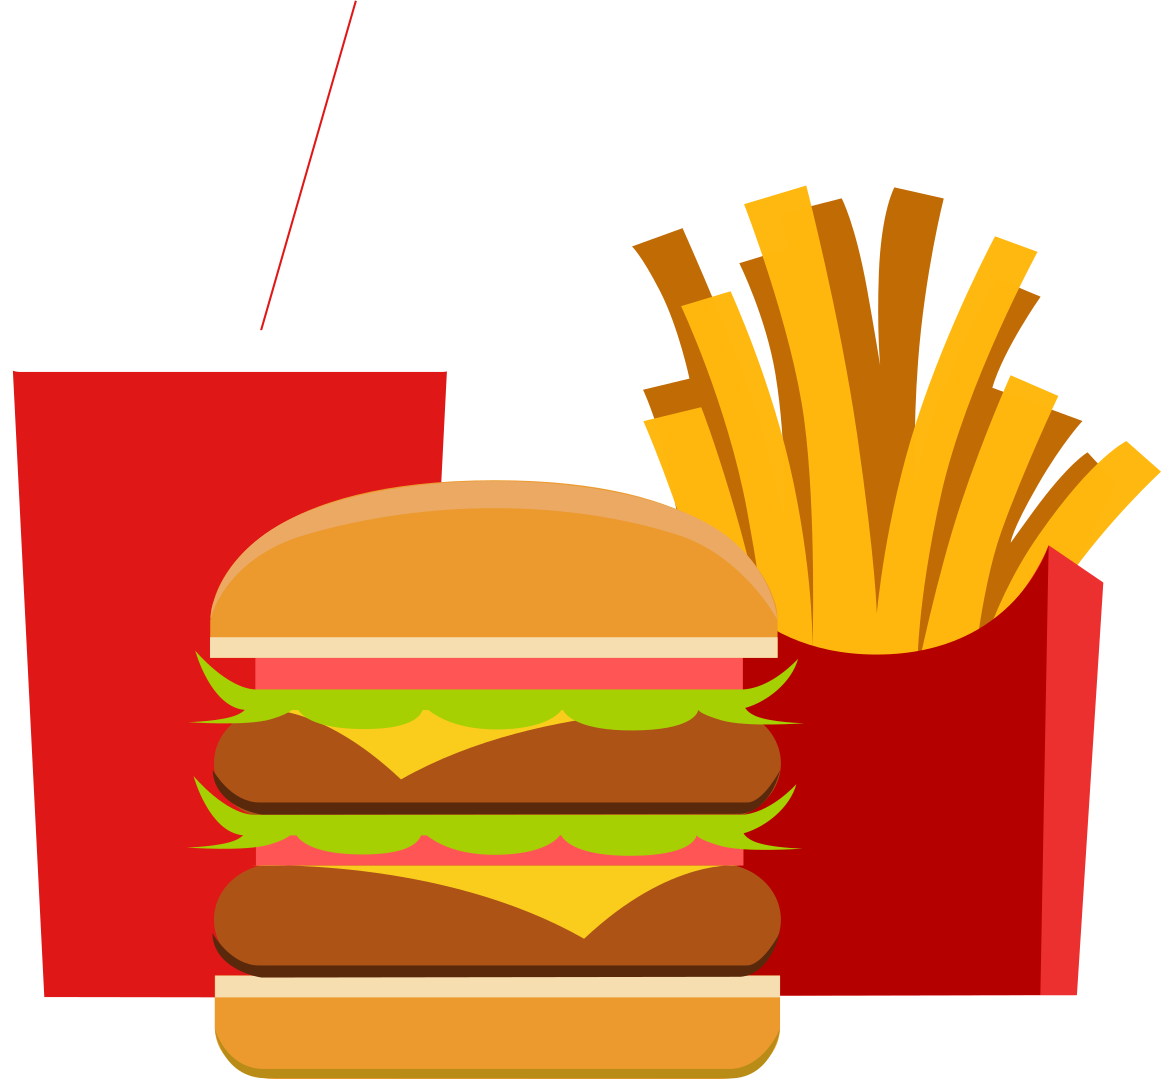
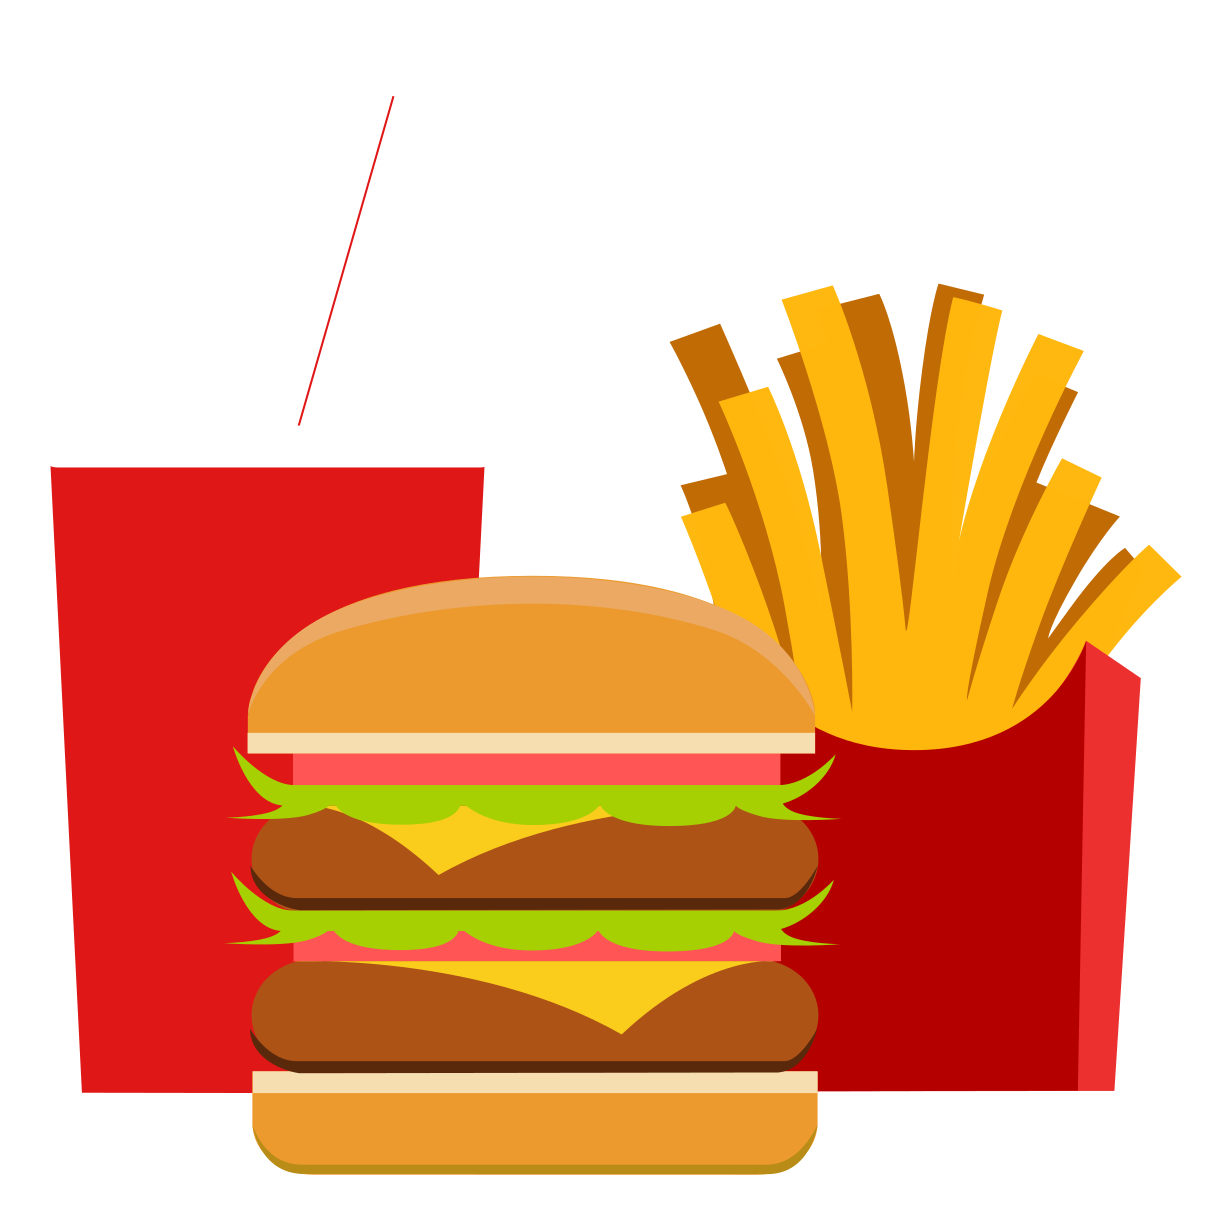
Addition of images and refactoring.

Changed region(s): [[0.0, 0.1529, 1.0, 1.0]]

diff --git a/index.html b/index.html
@@ -15,17 +15,17 @@ font-family: 'Fredoka One', 'Arial', sans-serif; -->
     <div class="container">
       <div class="row">
         <div class="col-12">
-          <header class="mb-3 mt-3">
-            <img class="header-banner" src="./title-banner.png" alt="Fast Food"/>
+          <header class="mb-5 mt-3">
+            <img class="header-banner fit-image-to-parent" src="./title-banner.png" alt="Fast Food"/>
           </header>
         </div>
       </div>
       <div class="row">
         <div class="col-md-6 col-lg-5">
-          <img src="./fast-food-simple.png" />
+          <img class="fit-image-to-parent" src="./fast-food-simple.png" />
         </div>
         <div class="col-md-6 col-lg-7">
-          <div class="p-3 brown">
+          <div class="p-3">
             <p class="spotlight">
               Between 2013 and 2016 <span class="emphasis">36.6%</span> of the American adults, around <span class="emphasis">84.8 million</span> people, consumed fast food on any given day.
             </p>
@@ -33,39 +33,39 @@ font-family: 'Fredoka One', 'Arial', sans-serif; -->
           </div>
         </div>
       </div>
-      <div class="row">
+      <div class="row brown mb-3">
         <div class="col-lg-12">
           <div class="pb-3 pt-4">
-            <h2>What percentage of Americans eats fast food on a daily basis?</h2>
+            <h2>What percentage of Americans eat fast food on a daily basis?</h2>
           </div>
         </div>
       </div>
       <div class="row mb-4 pb-3">
         <div class="col-lg-6">
-          <h5> By Age </h5>
+          <h3> By Age </h3>
           <div id="graphic-age">
           </div>
         </div>
         <div class="col-lg-6">
-          <h5> By Race </h5>
+          <h3> By Race </h3>
           <div id="graphic-race"></div>
         </div>
       </div>
       <div class="row">
         <div class="col-lg-12 graphic">
-          <h5> By Income </h5>
+          <h3> By Income </h3>
           <div id="graphic-income" class="row">
           </div>
         </div>
       </div>
       <div class="row">
         <div class="col-lg-12 graphic">
-          <h5> By Gender </h5>
+          <h3> By Gender </h3>
           <div id="graphic-gender" class="row">
           </div>
         </div>
       </div>
-      <div class="row">
+      <!-- <div class="row">
         <div class="col-lg-12 graphic">
           <h3> Time of Day Graphic </h3>
           <div id="graphic-time-of-day" class="row">
@@ -74,7 +74,7 @@ font-family: 'Fredoka One', 'Arial', sans-serif; -->
         <div class="col-lg-12">
           Among those who had eaten fast food, 43.7% did so during lunch, 42% during dinner, 22.7% during breakfast and 22.6% as snacks, according to the report.
         </div>
-      </div>
+      </div> -->
     </div>
 
     <script src="https://d3js.org/d3.v5.js"></script>

diff --git a/index.js b/index.js
@@ -20,11 +20,17 @@ function createCircleGraph( target, data ) {
   .data( Object.keys(data) )
   .enter()
   .append( 'div' )
-  .attr( 'class', 'circle col-' + 12/Object.keys(data).length )
+  .attr( 'class', 'circle col-md-' + 12/Object.keys(data).length + ' col-sm-12' )
 
-  el.append( 'p' )
+  el.append('img')
+  .attr( 'src', function( d ){
+    return  './images/' + data[d].title + '.png';
+  })
+  .attr( 'height', '175px' )
+  .attr( 'width', '175px' );
+
+  el.append( 'h4' )
   .text( function( d ){
-    // console.log(Object.keys(data).length)
     return data[d].title;
   });
 
@@ -60,7 +66,6 @@ function createCircleGraph( target, data ) {
   .text( function( d ){
     return data[d].percent + '%';
   })
-  // .attr( 'transform', 'translate(75,75)' );
   .attr( 'x', '75' )
   .attr( 'y', '85' )
   .style( 'text-anchor', 'middle')

diff --git a/index.css b/index.css
@@ -4,7 +4,7 @@ body {
 }
 
 header {
-  margin: 0 -15px;
+  margin: 0 -30px;
   text-align: center;
 }
 
@@ -19,7 +19,7 @@ h2 {
   letter-spacing: .1rem;
 }
 
-h5 {
+h3 {
   background-color: #333;
   border-bottom-right-radius: 32px;
   border-top-right-radius: 32px;
@@ -32,7 +32,7 @@ h5 {
   width: auto;
 }
 
-img {
+.fit-image-to-parent {
   padding: 24px;
   width: 100%;
 }
@@ -64,13 +64,8 @@ img {
   margin:0;
 }
 
-.circle svg {
-  height: auto;
-  width: auto;
-}
-
-.person {
-  /* height: 110px; */
+.circle {
+  text-align: center;
 }
 
 .person p {
